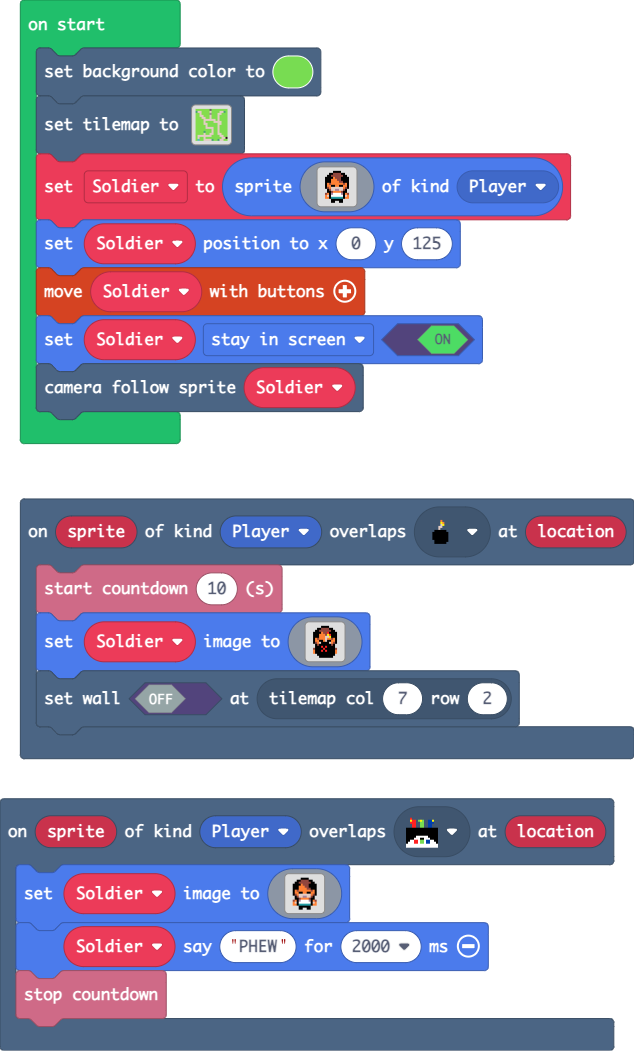
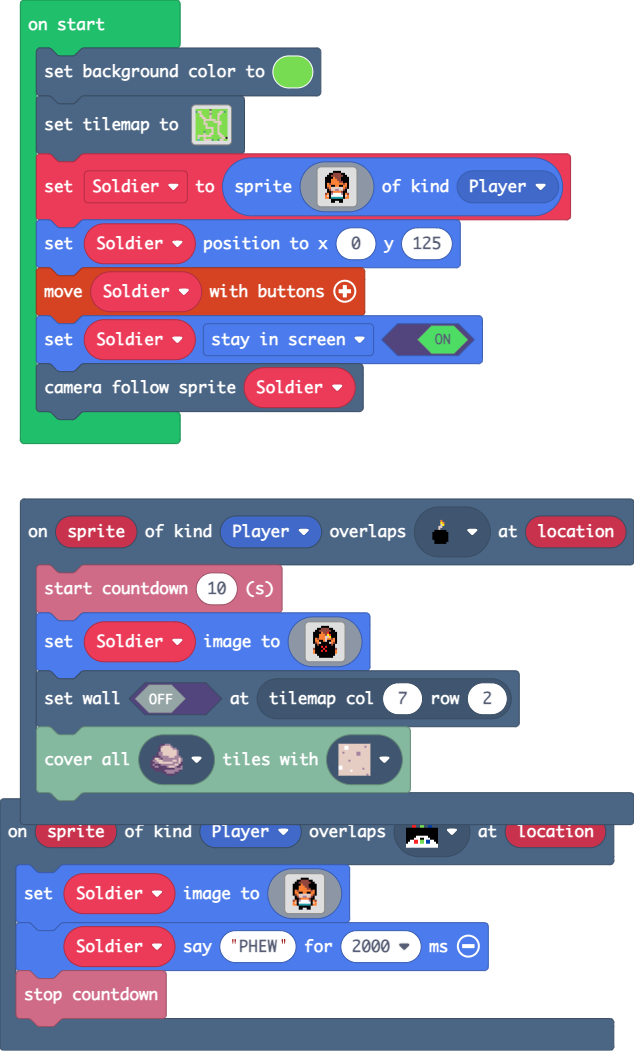
rock goes away when get bomb

Changed region(s): [[0.03, 0.6698, 1.0, 0.7916]]

diff --git a/main.ts b/main.ts
@@ -19,6 +19,7 @@ scene.onOverlapTile(SpriteKind.Player, myTiles.tile3, function (sprite, location
         . . . f f f f f f f . . 
         `)
     tiles.setWallAt(tiles.getTileLocation(7, 2), false)
+    tiles.coverAllTiles(sprites.castle.rock0, sprites.castle.tilePath5)
 })
 scene.onOverlapTile(SpriteKind.Player, myTiles.tile1, function (sprite, location) {
     Soldier.setImage(img`
